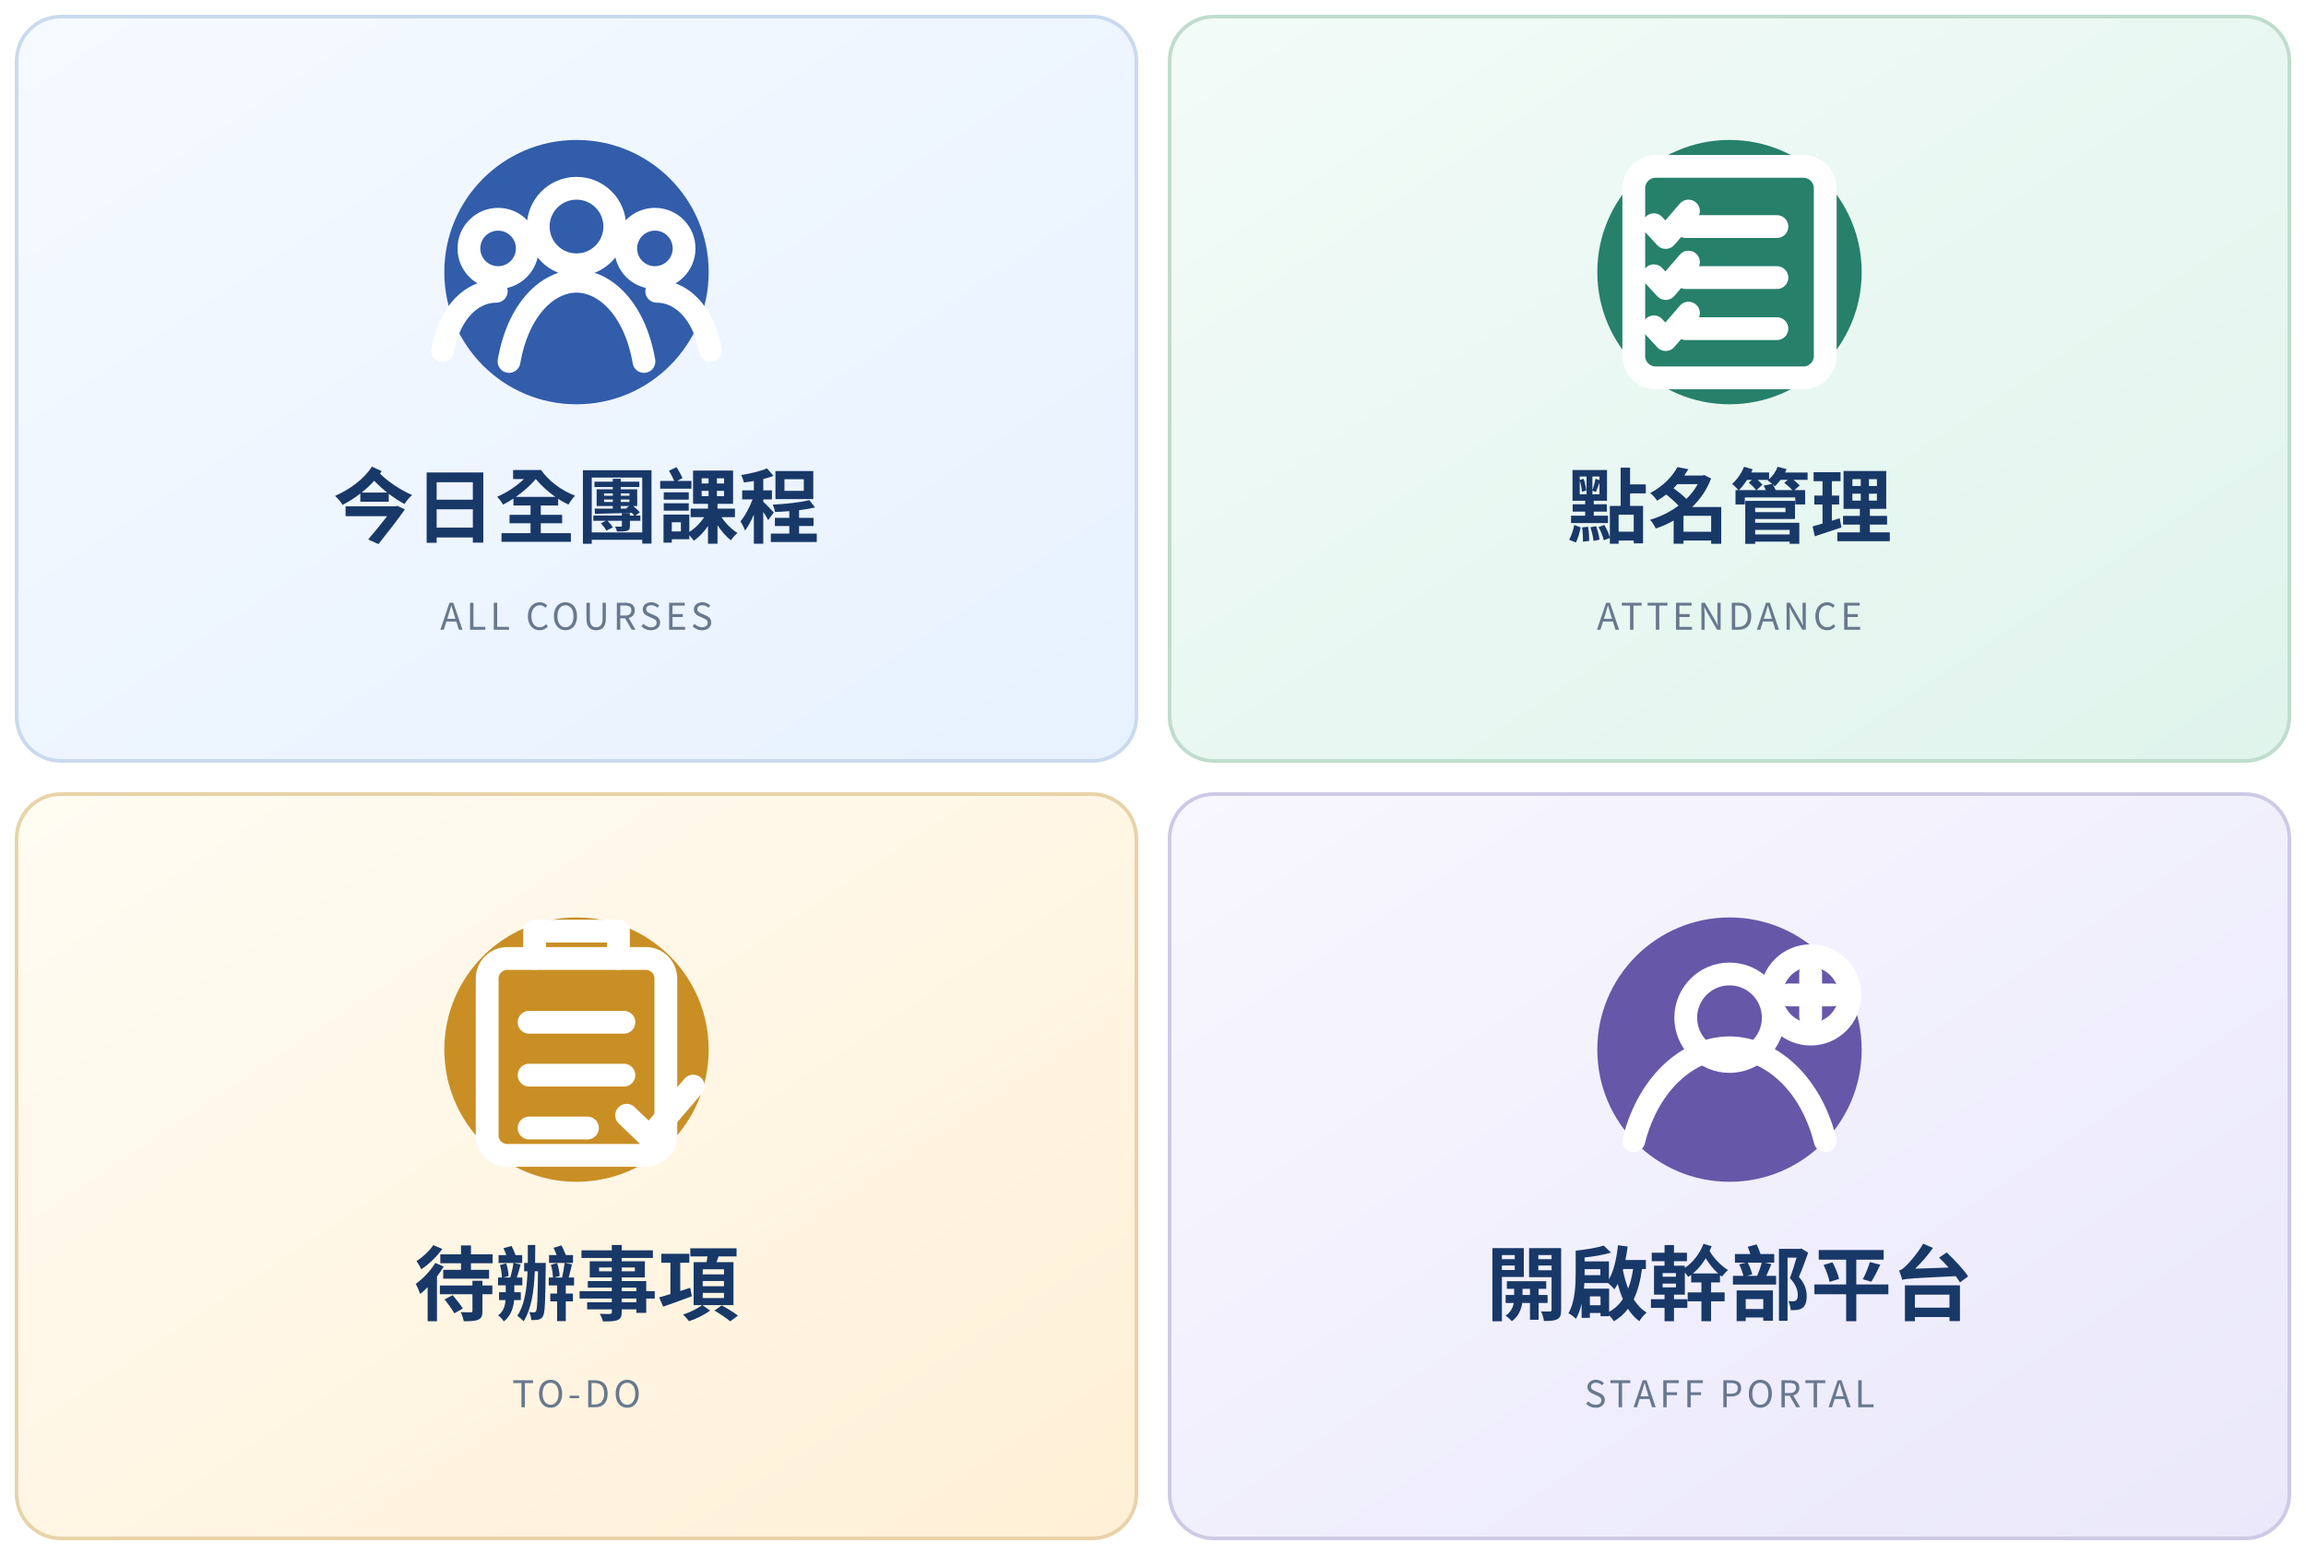
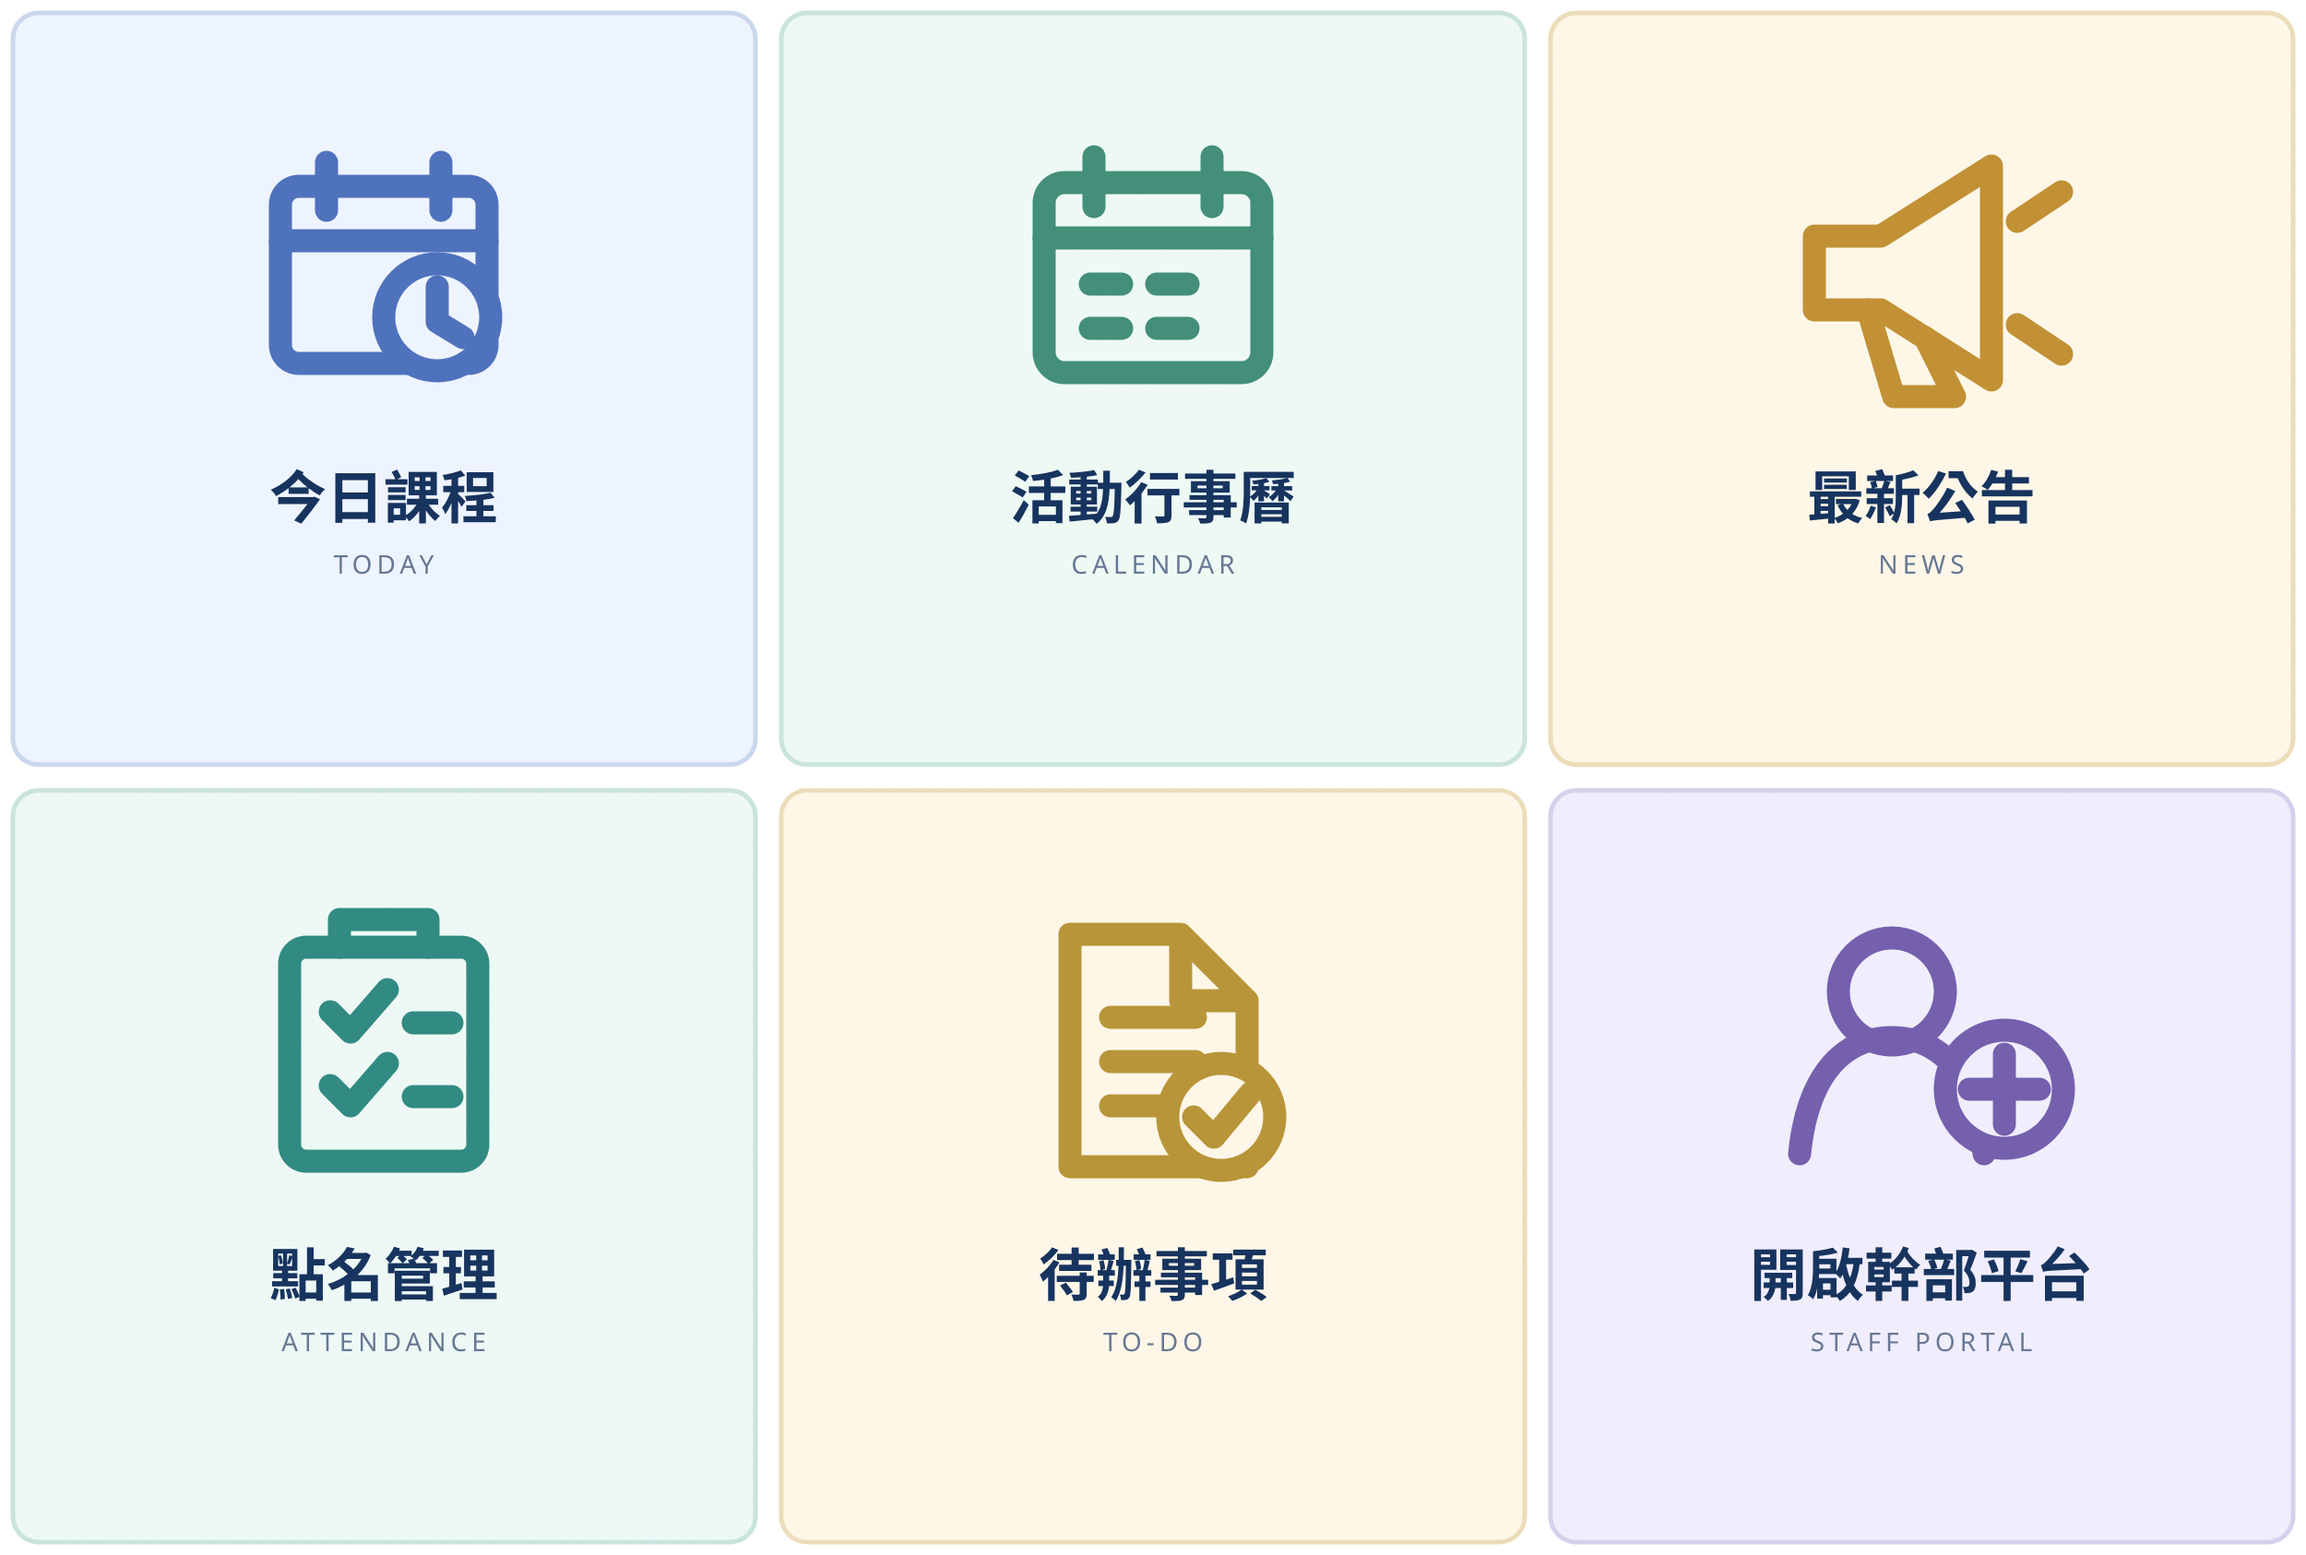
feat(lab): expand staff LINE menu to six actions

diff --git a/scripts/lab-line-menu-router.js b/scripts/lab-line-menu-router.js
@@ -1,7 +1,7 @@
 (()=>{
   const PARAM="line_menu";
   const STORAGE_KEY="lab_line_menu_target";
-  const STAFF_TARGETS=new Set(["staff_today_courses","staff_attendance","staff_todos","staff_portal"]);
+  const STAFF_TARGETS=new Set(["staff_today_courses","staff_activity_calendar","staff_announcements","staff_attendance","staff_todos","staff_portal"]);
   const PARENT_TARGETS=new Set(["parent_today_courses","parent_announcements","parent_activity_calendar","parent_portal"]);
   const ALL_TARGETS=new Set([...STAFF_TARGETS,...PARENT_TARGETS]);
 
@@ -112,6 +112,22 @@
 
     if(typeof window.openSchoolAdminWorkspace!=="function")return false;
     clearTarget();
+
+    if(target==="staff_activity_calendar"||target==="staff_announcements"){
+      const parentContexts=usableContexts("parent");
+      if(parentContexts.length===1){
+        const parentTarget=target==="staff_activity_calendar"?"parent_activity_calendar":"parent_announcements";
+        try{sessionStorage.setItem(STORAGE_KEY,parentTarget)}catch{}
+        sessionStorage.setItem("role_context","parent");
+        if(parentContexts[0].schoolId)sessionStorage.setItem("school_context_id",String(parentContexts[0].schoolId));
+        location.reload();
+        return true;
+      }
+      await window.openSchoolAdminWorkspace("home");
+      window.scrollTo(0,0);
+      showMessage("此資訊需具備同校家長身分；已開啟幹部平台首頁");
+      return true;
+    }
 
     if(target==="staff_today_courses"){
       await window.openSchoolAdminWorkspace("attendance");
